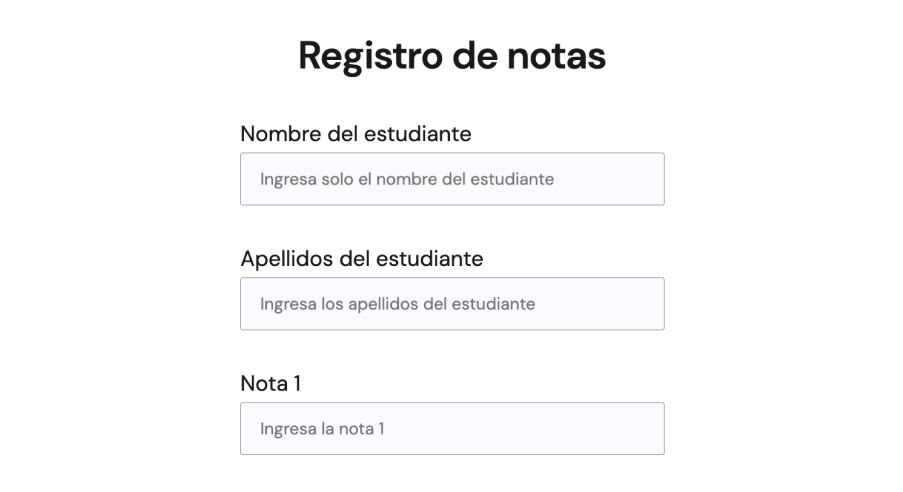
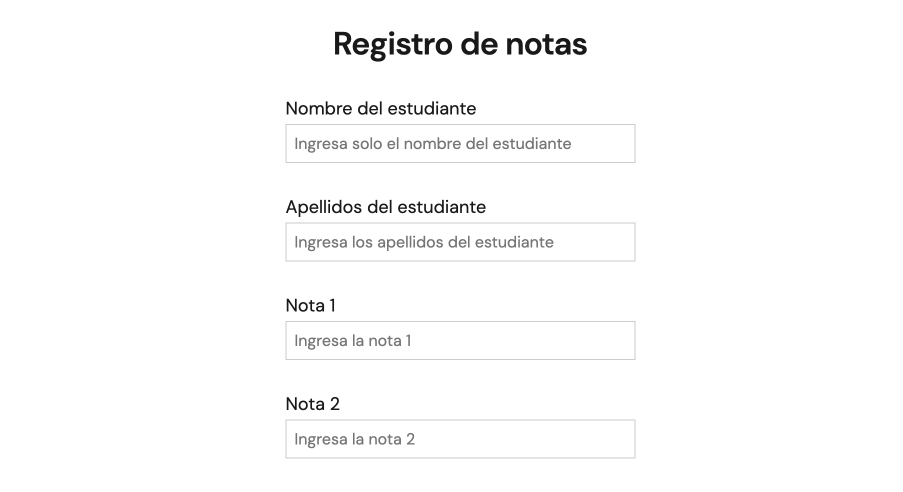
ajustes finales

diff --git a/TAREA3/Reto10.html b/TAREA3/Reto10.html
@@ -55,8 +55,8 @@
   <!-- Navegación inferior -->
   <div id="navegacion">
     <div id="navLeft">
-      <a href="Reto9.html"> <svg xmlns="http://www.w3.org/2000/svg" width="33" height="33" viewBox="0 0 33 33"
-          fill="none">
+      <a href="Reto9.html">
+        <svg xmlns="http://www.w3.org/2000/svg" width="33" height="33" viewBox="0 0 33 33" fill="none">
           <path d="M21.1887 22.7975L14.8912 16.5L21.1887 10.1887L19.25 8.25L11 16.5L19.25 24.75L21.1887 22.7975Z"
             fill="#3F0573" />
         </svg>
@@ -106,11 +106,10 @@
     </div>
 
     <div id="navRight">
-      <a href=""><svg xmlns="http://www.w3.org/2000/svg" width="33" height="33" viewBox="0 0 33 33" fill="none">
-          <path d="M11.8113 22.7975L18.1088 16.5L11.8113 10.1887L13.75 8.25L22 16.5L13.75 24.75L11.8113 22.7975Z"
-            fill="#3F0573" />
-        </svg>
-      </a>
+      <svg xmlns="http://www.w3.org/2000/svg" width="33" height="33" viewBox="0 0 33 33" fill="none">
+        <path d="M11.8113 22.7975L18.1088 16.5L11.8113 10.1887L13.75 8.25L22 16.5L13.75 24.75L11.8113 22.7975Z"
+          fill="#3F0573" />
+      </svg>
     </div>
   </div>
 

diff --git a/TAREA3/Reto1.html b/TAREA3/Reto1.html
@@ -67,7 +67,7 @@
         <p class="pFactura" id="fecha">Fecha: </p>
         <p class="pFactura" id="nombreCliente">Cliente: </p>
       </div>
-      
+
       <table>
         <thead>
           <tr>
@@ -158,8 +158,8 @@
     </div>
 
     <div id="navRight">
-      <a href="Reto2.html"><svg xmlns="http://www.w3.org/2000/svg" width="33" height="33" viewBox="0 0 33 33"
-          fill="none">
+      <a href="Reto2.html">
+        <svg xmlns="http://www.w3.org/2000/svg" width="33" height="33" viewBox="0 0 33 33" fill="none">
           <path d="M11.8113 22.7975L18.1088 16.5L11.8113 10.1887L13.75 8.25L22 16.5L13.75 24.75L11.8113 22.7975Z"
             fill="#3F0573" />
         </svg>

diff --git a/TAREA3/css/reto9.css b/TAREA3/css/reto9.css
@@ -32,13 +32,18 @@
 
 .pInput {
     display: flex;
+    padding: 8px;
     width: 350px;
-    padding: 12px 16px;
+    justify-content: left;
     align-items: center;
-    gap: 10px;
-    border-radius: 2px;
-    border: 0.5px solid var(--Gris-textos-3, #808080);
-    background: var(--Blanco-cards, #FAFBFF);
+    align-self: stretch;
+    border: 1px solid #CCC;
+    color: #191919;
+    font-family: "DM Sans";
+    font-size: 16px;
+    font-style: normal;
+    font-weight: 400;
+    line-height: normal;
 }
 
 #resultado {

diff --git a/TAREA3/css/reto8.css b/TAREA3/css/reto8.css
@@ -32,11 +32,16 @@
 
 .pInput {
     display: flex;
+    padding: 8px;
     width: 350px;
-    padding: 12px 16px;
+    justify-content: left;
     align-items: center;
-    gap: 10px;
-    border-radius: 2px;
-    border: 0.5px solid var(--Gris-textos-3, #808080);
-    background: var(--Blanco-cards, #FAFBFF);
+    align-self: stretch;
+    border: 1px solid #CCC;
+    color: #191919;
+    font-family: "DM Sans";
+    font-size: 16px;
+    font-style: normal;
+    font-weight: 400;
+    line-height: normal;
 }

diff --git a/TAREA3/Reto2.html b/TAREA3/Reto2.html
@@ -82,7 +82,8 @@
   <!-- Navegación inferior -->
   <div id="navegacion">
     <div id="navLeft">
-      <a href="Reto1.html"> <svg xmlns="http://www.w3.org/2000/svg" width="33" height="33" viewBox="0 0 33 33"
+      <a href="Reto1.html"> 
+        <svg xmlns="http://www.w3.org/2000/svg" width="33" height="33" viewBox="0 0 33 33"
           fill="none">
           <path d="M21.1887 22.7975L14.8912 16.5L21.1887 10.1887L19.25 8.25L11 16.5L19.25 24.75L21.1887 22.7975Z"
             fill="#3F0573" />

diff --git a/TAREA3/css/reto10.css b/TAREA3/css/reto10.css
@@ -53,3 +53,7 @@
     flex-direction: column;
     gap: 12px;
 }
+
+#navRight {
+    opacity: 0;
+}
